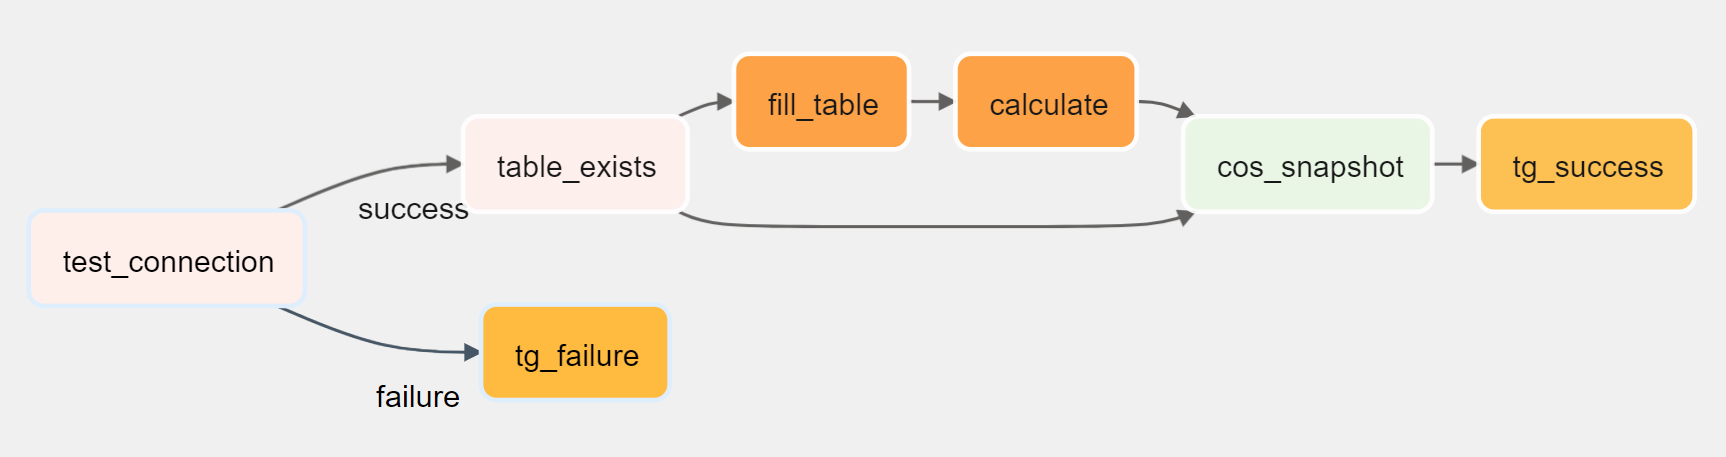
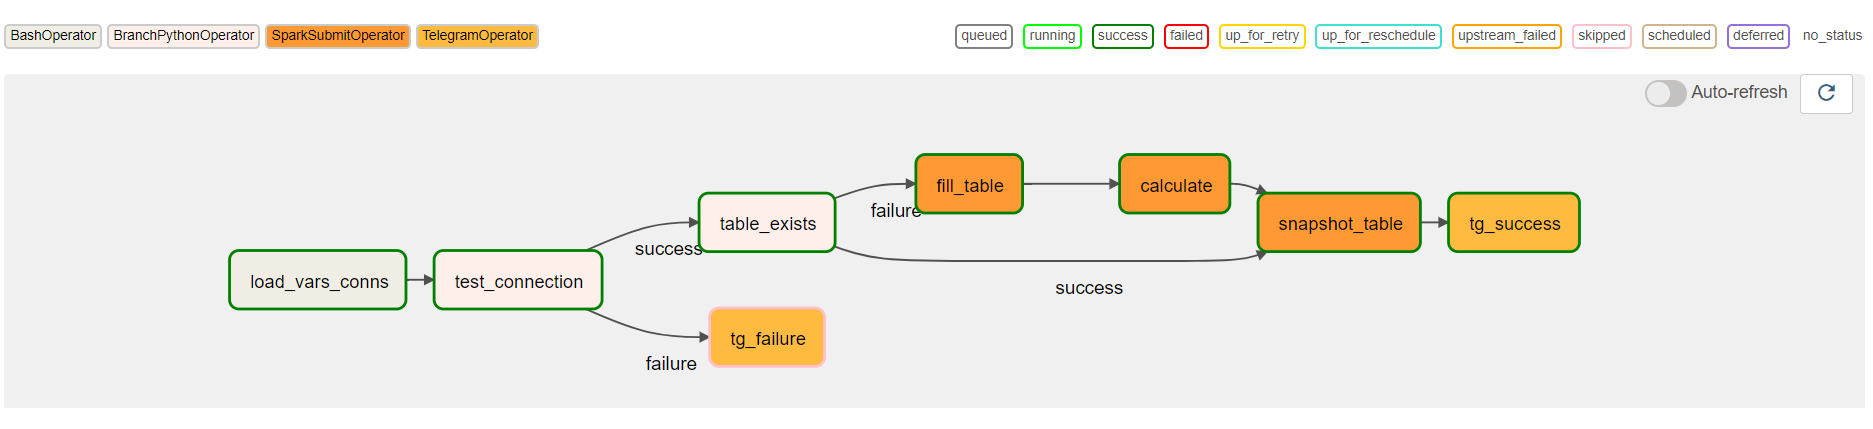
fully functional DAG

diff --git a/airflow/dag.py b/airflow/dag.py
@@ -1,22 +1,23 @@
 """
-Airflow DAG to to load and transform data using Apache Spark application.
+Airflow DAG to load and transform data using Apache Spark application.
 """
 from datetime import datetime, timedelta
 
 from airflow.models import DAG
-from airflow.operators.python import PythonOperator, BranchPythonOperator
-from airflow.operators.empty import EmptyOperator
-from airflow.providers.apache.spark.operators.spark_submit import SparkSubmitOperator
-from airflow.providers.telegram.operators.telegram import TelegramOperator
 from airflow.utils.edgemodifier import Label
+from airflow.operators.bash import BashOperator
+from airflow.operators.python import BranchPythonOperator
+from airflow.providers.telegram.operators.telegram import TelegramOperator
+from airflow.providers.apache.spark.operators.spark_submit import SparkSubmitOperator
 
-DB2_CONN_ID =   "my_db2"
+DB2_CONN_ID = "my_db2"
 SPARK_CONN_ID = "my_spark"
-COS_CONN_ID =   "my_cos"
+COS_CONN_ID = "my_cos"
+TG_CONN_ID = "my_telegram"
 
 
-def get_config() -> dict:
-    """Assembles all credentials and configs into one dictionary."""
+def _get_config() -> dict:
+    """Assemble all credentials and configs into one dictionary to pass it to spark-submit job."""
     import json
     from airflow.models import Variable, Connection
 
@@ -39,13 +40,11 @@ def get_config() -> dict:
         },
         **app_config["submit"],
     }
-    print("MYCONFIG")
-    print(config)
     return config
 
 
-
 def _test_connection() -> str:
+    """Try to connect to a database and execute simple query."""
     from airflow.providers.jdbc.hooks.jdbc import JdbcHook
 
     hook = JdbcHook(jdbc_conn_id=DB2_CONN_ID)
@@ -56,24 +55,34 @@ def _test_connection() -> str:
 
 
 def _table_exists() -> str:
+    """Check if table exists."""
     from airflow.providers.jdbc.hooks.jdbc import JdbcHook
 
-    table = get_config()["env_vars"]["spark.db2.table"]
+    table = _get_config()["env_vars"]["spark.db2.table"]
     hook = JdbcHook(jdbc_conn_id=DB2_CONN_ID)
     hook._test_connection_sql = f"SELECT 1 FROM {table}"
     result, message = hook.test_connection()
     print(message)
-    return "cos_snapshot" if result else "fill_table"
+    return "snapshot_table" if result else "fill_table"
 
 
 with DAG(
     dag_id='my_app',
-    schedule_interval=None,
-    # schedule_interval=timedelta(hours=4),
+    schedule_interval=timedelta(hours=4),
     start_date=datetime(2021, 1, 1),
     catchup=False,
     tags=['app']
 ) as dag:
+
+    load_vars_conns = BashOperator(
+        task_id="load_vars_conns",
+        bash_command=
+        '''
+            cd {{ var.json.app_config.cwd }}; 
+            airflow variables import ./json/variables.json;
+            airflow connections import ./json/connections.json
+        '''
+    )
 
     test_connection = BranchPythonOperator(
         task_id="test_connection",
@@ -89,9 +98,9 @@ with DAG(
         task_id="fill_table",
         conn_id=SPARK_CONN_ID,
         name='spark-app-fill',
-        application_args=["-m", "db2", "-a", "write", "-n", "10", "-v"],
-        verbose = True,
-        **get_config()
+        application_args=["-m", "db2", "-a", "write", "-n", "{{ var.json.app_config.num_records }}"],
+        verbose=True,
+        **_get_config()
     )
 
     calculate_sum = SparkSubmitOperator(
@@ -99,41 +108,36 @@ with DAG(
         conn_id=SPARK_CONN_ID,
         name='spark-app-calculate',
         application_args=["--calc"],
-        verbose = True,
-        **get_config()
+        verbose=True,
+        **_get_config()
     )
 
     snapshot_table = SparkSubmitOperator(
-        task_id="cos_snapshot",
+        task_id="snapshot_table",
         conn_id=SPARK_CONN_ID,
         name='spark-app-snapshot',
-        application_args = ["--snap"],
-        verbose = True,
-        **get_config()
+        application_args=["--snap"],
+        verbose=True,
+        **_get_config()
     )
 
-    telegram_send_success = PythonOperator(
+    telegram_send_success = TelegramOperator(
         task_id="tg_success",
-        python_callable=lambda:print("TG SUCC")
+        telegram_conn_id=TG_CONN_ID,
+        text="DAG success: {{ run_id }}",
+        trigger_rule="none_failed_or_skipped"
     )
 
-    telegram_send_failure = PythonOperator(
+    telegram_send_failure = TelegramOperator(
         task_id="tg_failure",
-        python_callable=lambda:print("TG FAIL")
+        telegram_conn_id=TG_CONN_ID,
+        text="DAG failure: {{ run_id }}"
     )
 
-    # telegram_send_success = TelegramOperator(
-    #     task_id="tg_success",
-    #     trigger_rule="none_failed_or_skipped"
-    # )
-
-    # telegram_send_failure = TelegramOperator(
-    #     task_id="tg_failure"
-    # )
-
+    load_vars_conns >> test_connection
 
     test_connection >> Label("success") >> table_exists
     test_connection >> Label("failure") >> telegram_send_failure
 
-    table_exists    >> Label("success") >> snapshot_table >> telegram_send_success
-    table_exists    >> Label("failure") >> fill_table     >> calculate_sum >> snapshot_table >> telegram_send_success
+    table_exists >> Label("success") >> snapshot_table >> telegram_send_success
+    table_exists >> Label("failure") >> fill_table >> calculate_sum >> snapshot_table >> telegram_send_success
